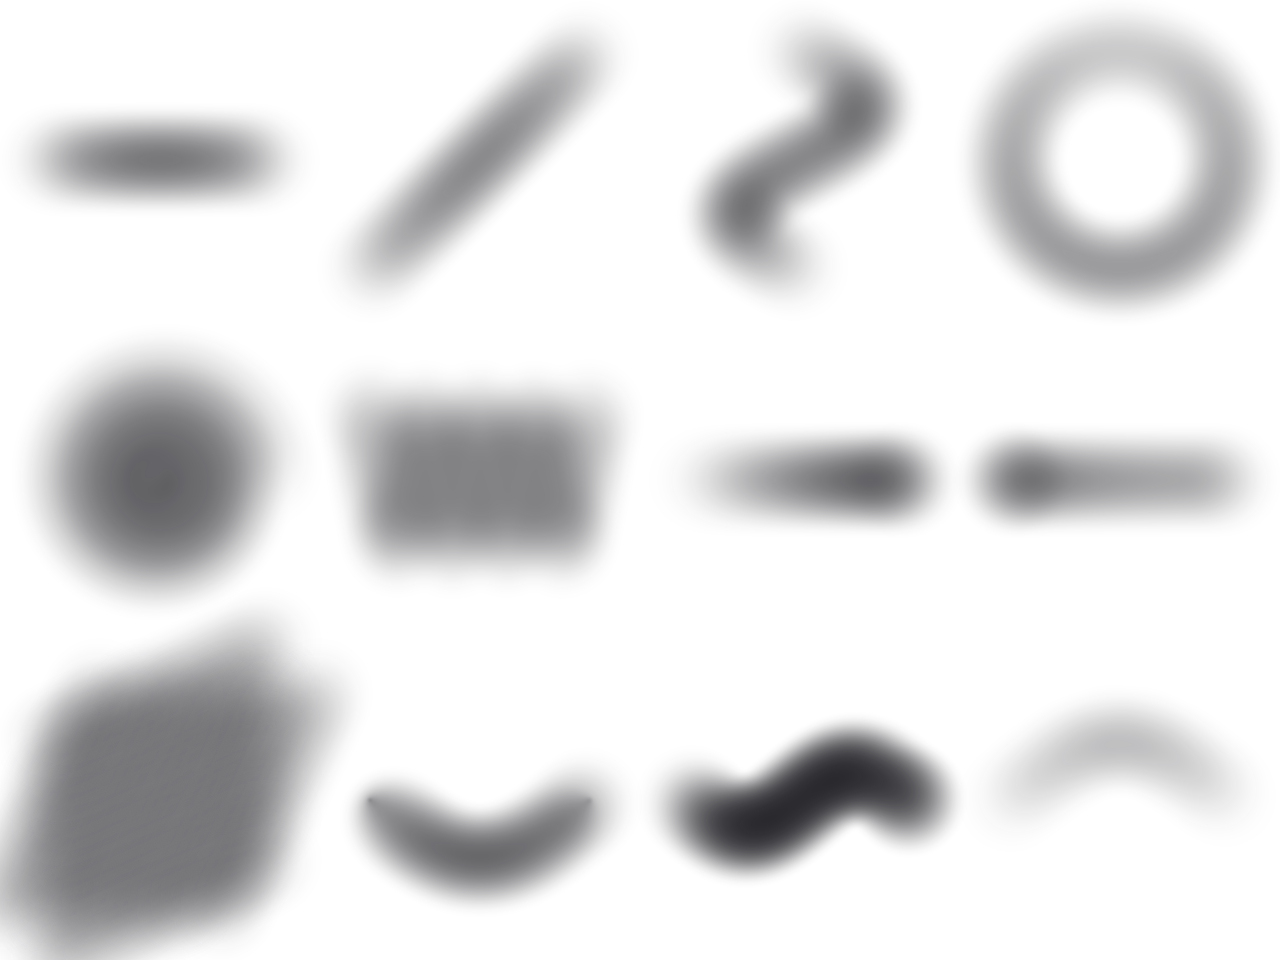
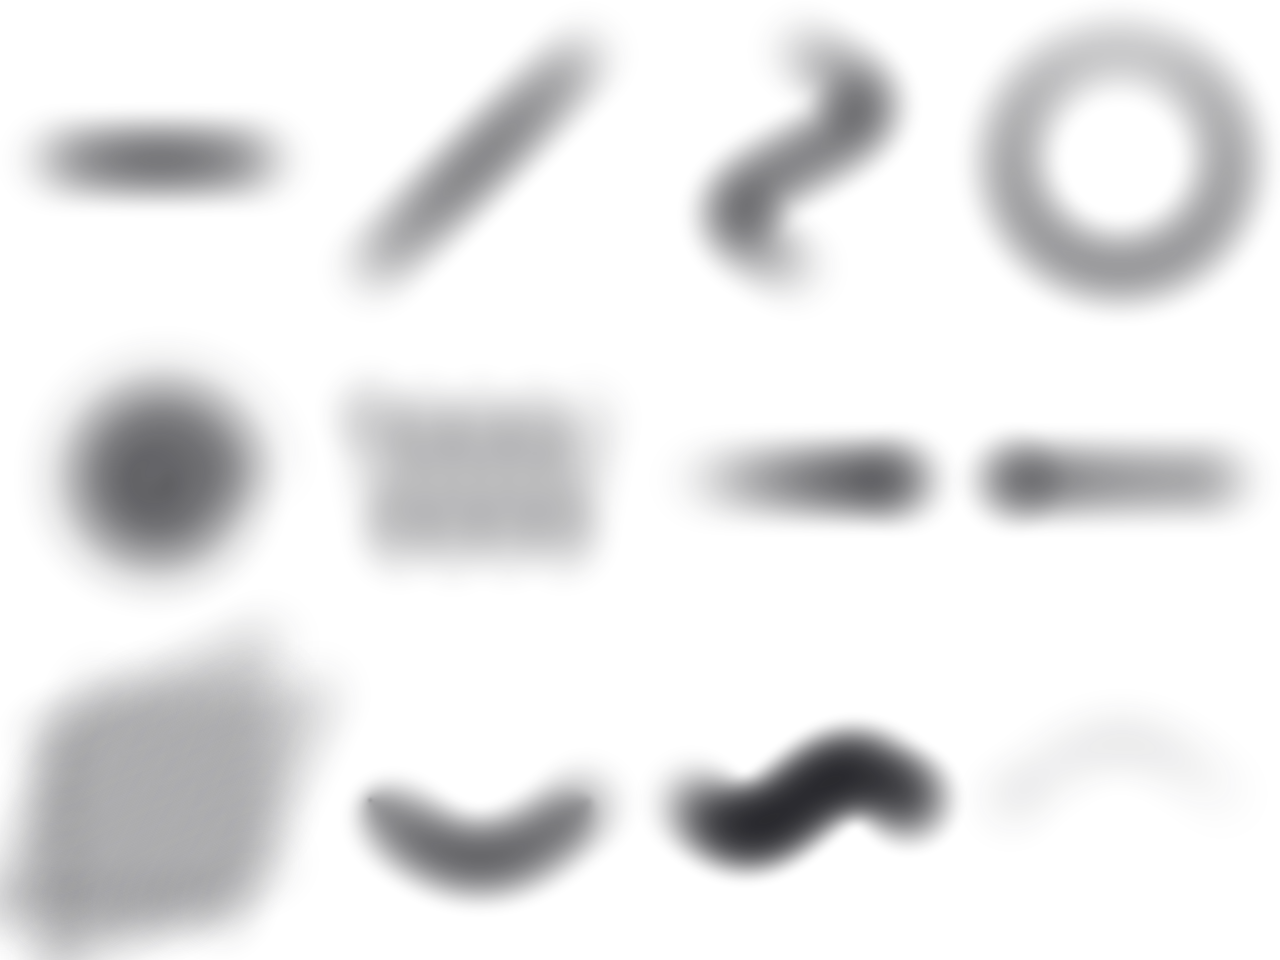
Make airbrush deposition proportional to dwell time
Manual testing showed beads along fast airbrush strokes: time-based dabs
landed every rate^-1 seconds on top of the movement dabs. Movement dabs
of airbrush presets now carry the paint of the time the pen spent around
them, 1 - (1 - flow)^(step/speed * rate) capped at one period, and the
time emitter only fires when the pen moved less than one spacing step
since the previous instant. Fast strokes are even (local ripple < 2%),
slow strokes deposit more, resting still builds up, and results stay
frame-rate independent. The airbrush golden image is updated
deliberately (other presets unchanged).

diff --git a/crates/brush/src/airbrush.rs b/crates/brush/src/airbrush.rs
@@ -24,6 +24,8 @@ pub struct TimeDeposit {
     path: VecDeque<(StrokePoint, f32)>,
     /// Latest instant already resolved.
     horizon: f64,
+    /// Path distance at the previous instant.
+    last_distance: Option<f32>,
 }
 
 impl TimeDeposit {
@@ -37,6 +39,7 @@ impl TimeDeposit {
         self.next = 0;
         self.path.clear();
         self.horizon = f64::NEG_INFINITY;
+        self.last_distance = None;
     }
 
     pub fn emitted(&self) -> u64 {
@@ -64,8 +67,16 @@ impl TimeDeposit {
             .max(now - Self::HOLD_DELAY)
     }
 
-    /// Emits every instant up to `horizon` through `emit(k, point, distance)`.
-    pub fn emit(&mut self, rate: f32, horizon: f64, mut emit: impl FnMut(u64, &StrokePoint, f32)) {
+    /// Emits every instant up to `horizon` through
+    /// `emit(k, point, distance, moved)`, where `moved` is the path length
+    /// travelled since the previous instant (so the caller can leave fast
+    /// motion to movement dabs).
+    pub fn emit(
+        &mut self,
+        rate: f32,
+        horizon: f64,
+        mut emit: impl FnMut(u64, &StrokePoint, f32, f32),
+    ) {
         let (Some(t0), true) = (self.t0, rate > 0.0 && rate.is_finite()) else {
             return;
         };
@@ -96,7 +107,9 @@ impl TimeDeposit {
                 (Some(&(a, da)), _) => (StrokePoint { time: t, ..a }, da),
                 (None, _) => return,
             };
-            emit(self.next, &point, distance);
+            let moved = self.last_distance.map_or(0.0, |d| distance - d);
+            self.last_distance = Some(distance);
+            emit(self.next, &point, distance, moved);
             self.next += 1;
         }
     }
@@ -121,7 +134,7 @@ mod tests {
         let mut now = 0.0;
         while now <= seconds {
             let h = d.horizon_at(now);
-            d.emit(100.0, h, |k, p, _| out.push((k, p.pos.x)));
+            d.emit(100.0, h, |k, p, _, _| out.push((k, p.pos.x)));
             now += 1.0 / fps;
         }
         out
@@ -148,7 +161,7 @@ mod tests {
             d.record(point(i as f32 * 10.0, i as f64 * 0.01), i as f32 * 10.0);
         }
         let mut out = vec![];
-        d.emit(400.0, 0.1, |k, p, dist| out.push((k, p.pos.x, dist)));
+        d.emit(400.0, 0.1, |k, p, dist, _| out.push((k, p.pos.x, dist)));
         assert_eq!(out.len(), 41);
         for (k, x, dist) in out {
             let expected = k as f32 / 400.0 * 1000.0;
@@ -162,9 +175,9 @@ mod tests {
         d.reset();
         d.record(point(0.0, 0.0), 0.0);
         let mut n = 0;
-        d.emit(0.0, 10.0, |_, _, _| n += 1);
+        d.emit(0.0, 10.0, |_, _, _, _| n += 1);
         assert_eq!(n, 0);
-        d.emit(1000.0, 1e9, |_, _, _| n += 1);
+        d.emit(1000.0, 1e9, |_, _, _, _| n += 1);
         assert_eq!(n as u64, TimeDeposit::MAX_PER_CALL);
     }
 }

diff --git a/crates/brush/src/engine.rs b/crates/brush/src/engine.rs
@@ -245,12 +245,17 @@ impl StrokeProcessor {
             airbrush,
             ..
         } = self;
-        airbrush.emit(preset.airbrush.rate, horizon, |k, p, distance| {
+        airbrush.emit(preset.airbrush.rate, horizon, |k, p, distance, moved| {
             let index = AIRBRUSH_INDEX_BASE + k;
             let input = dynamics_at(p, distance, index, *scale, rng);
             let taper = preset.taper.factor(distance, f32::INFINITY);
             let dab = resolve_dab(preset, &input, p.pos, taper);
             let dir = p.velocity.try_normalize().unwrap_or(Vec2::X);
+            // A pen that covered a full spacing step since the last instant
+            // is moving: its movement dabs already carry the deposition.
+            if moved >= preset.properties.eval(Param::Spacing, &input) * dab.extent_along(dir) {
+                return;
+            }
             let scatter = preset.properties.eval(Param::Scatter, &input);
             preset
                 .scatter
@@ -420,15 +425,29 @@ fn place(
         f32::INFINITY
     };
     let taper = preset.taper.factor(site.distance, to_end);
-    let dab = resolve_dab(preset, &input, p.pos, taper);
+    let mut dab = resolve_dab(preset, &input, p.pos, taper);
     let dir = p.velocity.try_normalize().unwrap_or(Vec2::X);
+    // Spacing rule: the next dab is `spacing` times the unscattered dab's
+    // extent along the direction of travel (its diameter for round tips).
+    let step = preset.properties.eval(Param::Spacing, &input) * dab.extent_along(dir);
+    if preset.airbrush.enabled {
+        // Airbrush paint is proportional to dwell time: a movement dab
+        // stands for the `step / speed` seconds the pen spent around it,
+        // capped at one emission period (resting pens are handled by the
+        // time-based emitter).
+        let speed = p.velocity.length();
+        let periods = if speed > 0.0 {
+            (step / speed * preset.airbrush.rate).min(1.0)
+        } else {
+            1.0
+        };
+        dab.flow = 1.0 - (1.0 - dab.flow).powf(periods);
+    }
     let scatter = preset.properties.eval(Param::Scatter, &input);
     preset
         .scatter
         .apply(&dab, scatter, dir, rng, site.index as u64, out);
-    // Spacing rule: the next dab is `spacing` times the unscattered dab's
-    // extent along the direction of travel (its diameter for round tips).
-    preset.properties.eval(Param::Spacing, &input) * dab.extent_along(dir)
+    step
 }
 
 /// The dab a preset produces for given dynamics inputs at `center`.

diff --git a/crates/brush/tests/airbrush.rs b/crates/brush/tests/airbrush.rs
@@ -103,3 +103,43 @@ fn non_airbrush_presets_ignore_time() {
     let long = hold(&p, 60.0, 2.0, 1.0).alpha(300, 300);
     assert_eq!(short, long);
 }
+
+/// Airbrush stroke along y=300 at `speed` canvas px/s, 200 Hz samples.
+fn moving(speed: f32) -> tela_brush::StrokeBuffer {
+    let p = airbrush();
+    let mut e = BrushEngine::new(p);
+    let step = speed / 200.0;
+    let n = (2000.0 / step) as usize;
+    e.begin_stroke(input(0.0, 0.0, 1.0), 1.0, 3);
+    for i in 1..=n {
+        let t = i as f64 / 200.0;
+        e.advance_time(t);
+        e.add_input(input(i as f32 * step, t, 1.0));
+    }
+    e.end_stroke().unwrap()
+}
+
+#[test]
+fn fast_strokes_deposit_evenly_without_beads() {
+    let s = moving(14_000.0);
+    let line: Vec<f32> = (400..1600).map(|x| s.alpha(x, 300)).collect();
+    let mean = line.iter().sum::<f32>() / line.len() as f32;
+    assert!(mean > 0.01, "something is deposited");
+    // Beads are local: compare each pixel with its ±30 px neighbourhood
+    // (slow trends from the pen accelerating are legitimate).
+    let ripple = (30..line.len() - 30)
+        .map(|i| {
+            let local = line[i - 30..=i + 30].iter().sum::<f32>() / 61.0;
+            (line[i] - local).abs() / local
+        })
+        .fold(0.0, f32::max);
+    assert!(ripple < 0.02, "beads: local deviation {ripple}");
+}
+
+#[test]
+fn slower_strokes_deposit_more_paint() {
+    let mean =
+        |s: &tela_brush::StrokeBuffer| (400..1600).map(|x| s.alpha(x, 300)).sum::<f32>() / 1200.0;
+    let (slow, fast) = (mean(&moving(600.0)), mean(&moving(6000.0)));
+    assert!(slow > fast * 1.5, "slow {slow} vs fast {fast}");
+}
